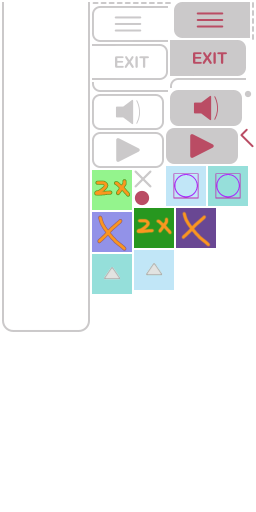
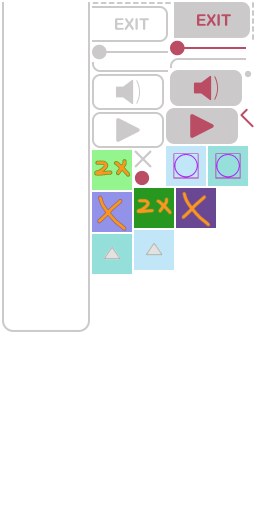
new item toggle asset, animate toggle button

Changed region(s): [[0.3438, 0.0, 1.0, 0.5938]]

diff --git a/PttrnFlow/PttrnFlow/Layers/SequenceUILayer.m b/PttrnFlow/PttrnFlow/Layers/SequenceUILayer.m
@@ -29,6 +29,7 @@ static CGFloat const kLineWidth = 2;
 @property (assign) int steps;
 @property (assign) BOOL menuOpen;
 @property (assign) CGFloat controlBarBottom;
+@property (assign) CGFloat yMidRowBottom;
 
 @property (weak, nonatomic) TickDispatcher *tickDispatcher;
 @property (weak, nonatomic) CCSpriteBatchNode *uiBatchNode;
@@ -39,6 +40,7 @@ static CGFloat const kLineWidth = 2;
 @property (weak, nonatomic) CCSprite *itemMenuTopCap;
 @property (weak, nonatomic) CCSprite *itemMenuBottomCap;
 @property (weak, nonatomic) TileSprite *itemMenuLeftSeparator;
+@property (weak, nonatomic) CCMenuItemToggle *itemsToggle;
 
 @end
 
@@ -55,10 +57,6 @@ static CGFloat const kLineWidth = 2;
         CGSize controlUnitSize = CGSizeMake(kControlStepWidth, kRowHeight);
         CGFloat padding = 20;
         
-//        CGFloat yMidRow1 = self.contentSize.height - ((kRowHeight / 2) +  kStatusBarHeight + topPadding);
-//        CGFloat yMidRow2 = self.contentSize.height - ((3 * kRowHeight) / 2);
-//        CGFloat yMidRow3 = self.contentSize.height - ((5 * kRowHeight) / 2);
-        
         // batch node
         CCSpriteBatchNode *uiBatch = [CCSpriteBatchNode batchNodeWithFile:[kTextureKeyUILayer stringByAppendingString:@".png"]];
         self.uiBatchNode = uiBatch;
@@ -68,39 +66,40 @@ static CGFloat const kLineWidth = 2;
         CCSprite *exitOff = [CCSprite spriteWithSpriteFrameName:@"exit_off.png"];
         
         // bottom button alignment --------------
-        CGFloat yMidRowBottom = (exitOff.contentSize.height / 2) + padding;
+        _yMidRowBottom = (exitOff.contentSize.height / 2) + padding;
         _controlBarBottom = (2 * padding) + exitOff.contentSize.height;
         // -------------------------------------
 
         CCSprite *exitOn = [CCSprite spriteWithSpriteFrameName:@"exit_on.png"];
         CCMenuItemSprite *exitButton = [[CCMenuItemSprite alloc] initWithNormalSprite:exitOff selectedSprite:exitOn disabledSprite:nil target:self selector:@selector(exitPressed:)];
-        exitButton.position = ccp(exitButton.contentSize.width / 2, yMidRowBottom);
+        exitButton.position = ccp(exitButton.contentSize.width / 2, self.yMidRowBottom);
         
         // speaker button
         CCSprite *speakerOff = [CCSprite spriteWithSpriteFrameName:@"speaker_off.png"];
         CCSprite *speakerOn = [CCSprite spriteWithSpriteFrameName:@"speaker_on.png"];
         CCMenuItemSprite *speakerButton = [[CCMenuItemSprite alloc] initWithNormalSprite:speakerOff selectedSprite:speakerOn disabledSprite:nil target:self selector:@selector(speakerPressed:)];
-        speakerButton.position = ccp((3 * buttonSize.width) / 2, yMidRowBottom);
+        speakerButton.position = ccp((3 * buttonSize.width) / 2, self.yMidRowBottom);
         
         // play button
         CCSprite *playOff = [CCSprite spriteWithSpriteFrameName:@"play_off.png"];
         CCSprite *playOn = [CCSprite spriteWithSpriteFrameName:@"play_on.png"];
         CCMenuItemSprite *playButton = [[CCMenuItemSprite alloc] initWithNormalSprite:playOff selectedSprite:playOn disabledSprite:nil target:self selector:@selector(playButtonPressed:)];
-        playButton.position = ccp((5 * buttonSize.width) / 2, yMidRowBottom);
+        playButton.position = ccp((5 * buttonSize.width) / 2, self.yMidRowBottom);
         
-        // hamburger button (drop down menu) top right
-        CCSprite *hamburgerOff1 = [CCSprite spriteWithSpriteFrameName:@"hamburger_off.png"];
-        CCSprite *hamburgerOn1 = [CCSprite spriteWithSpriteFrameName:@"hamburger_on.png"];
-        CCMenuItemSprite *hamburgerOffItem = [CCMenuItemSprite itemWithNormalSprite:hamburgerOff1 selectedSprite:hamburgerOn1];
-        CCSprite *hamburgerOff2 = [CCSprite spriteWithSpriteFrameName:@"hamburger_off.png"];
-        CCSprite *hamburgerOn2 = [CCSprite spriteWithSpriteFrameName:@"hamburger_on.png"];
-        CCMenuItemSprite *hamburgerOnItem = [CCMenuItemSprite itemWithNormalSprite:hamburgerOn2 selectedSprite:hamburgerOff2];
+        // items_button button (drop down menu) top right
+        CCSprite *itemsButtonOff1 = [CCSprite spriteWithSpriteFrameName:@"items_button_off.png"];
+        CCSprite *itemsButtonOn1 = [CCSprite spriteWithSpriteFrameName:@"items_button_on.png"];
+        CCMenuItemSprite *items_buttonOffItem = [CCMenuItemSprite itemWithNormalSprite:itemsButtonOff1 selectedSprite:itemsButtonOn1];
+        CCSprite *itemsButtonOff2 = [CCSprite spriteWithSpriteFrameName:@"items_button_off.png"];
+        CCSprite *itemsButtonOn2 = [CCSprite spriteWithSpriteFrameName:@"items_button_on.png"];
+        CCMenuItemSprite *items_buttonOnItem = [CCMenuItemSprite itemWithNormalSprite:itemsButtonOn2 selectedSprite:itemsButtonOff2];
         
-        CCMenuItemToggle *hamburgerToggle = [CCMenuItemToggle itemWithTarget:self selector:@selector(hamburgerButtonPressed:) items:hamburgerOffItem, hamburgerOnItem, nil];
-        hamburgerToggle.position = ccp(self.contentSize.width - (hamburgerToggle.contentSize.width / 2), yMidRowBottom);
+        CCMenuItemToggle *itemsToggle = [CCMenuItemToggle itemWithTarget:self selector:@selector(itemsButtonPressed:) items:items_buttonOffItem, items_buttonOnItem, nil];
+        _itemsToggle = itemsToggle;
+        itemsToggle.position = [self itemsToggleOriginOpened:NO];
         
         // buttons must be added to a CCMenu to work
-        CCMenu *menu = [CCMenu menuWithItems:exitButton, speakerButton, playButton, hamburgerToggle, nil];
+        CCMenu *menu = [CCMenu menuWithItems:exitButton, speakerButton, playButton, itemsToggle, nil];
         menu.position = ccp(0, 0);
         [self addChild:menu];
         
@@ -142,19 +141,19 @@ static CGFloat const kLineWidth = 2;
         CCSprite *itemMenuBottomCap = [CCSprite spriteWithSpriteFrameName:@"item_menu_bottom.png"];
         _itemMenuBottomCap = itemMenuBottomCap;
         itemMenuBottomCap.anchorPoint = ccp(0, 0);
-        itemMenuBottomCap.position = ccp([self itemMenuLeftOnscreen:NO], self.controlBarBottom);
+        itemMenuBottomCap.position = ccp([self itemMenuLeftOpened:NO], self.controlBarBottom);
         [uiBatch addChild:itemMenuBottomCap];
         
         TileSprite *itemMenuLeftSeparator = [[TileSprite alloc] initWithTileFrameName:@"dotted_line_2_80.png" repeatHorizonal:1 repeatVertical:dragItems.count];
         _itemMenuLeftSeparator = itemMenuLeftSeparator;
         itemMenuLeftSeparator.anchorPoint = ccp(0, 0);
-        itemMenuLeftSeparator.position = ccp([self itemMenuLeftOnscreen:NO], self.itemMenuBottomCap.position.y + self.itemMenuBottomCap.contentSize.height);
+        itemMenuLeftSeparator.position = ccp([self itemMenuLeftOpened:NO], self.itemMenuBottomCap.position.y + self.itemMenuBottomCap.contentSize.height);
         [uiBatch addChild:itemMenuLeftSeparator];
         
         CCSprite *itemMenuTopCap = [CCSprite spriteWithSpriteFrameName:@"item_menu_top.png"];
         _itemMenuTopCap = itemMenuTopCap;
         itemMenuTopCap.anchorPoint = ccp(0, 0);
-        itemMenuTopCap.position = ccp([self itemMenuLeftOnscreen:NO], self.itemMenuLeftSeparator.position.y + self.itemMenuLeftSeparator.contentSize.height);
+        itemMenuTopCap.position = ccp([self itemMenuLeftOpened:NO], self.itemMenuLeftSeparator.position.y + self.itemMenuLeftSeparator.contentSize.height);
         [uiBatch addChild:itemMenuTopCap];
         
         // size and position the pan sprite and control bar
@@ -179,23 +178,31 @@ static CGFloat const kLineWidth = 2;
     return self;
 }
 
-- (CGFloat)itemMenuLeftOnscreen:(BOOL)onscreen
+- (CGFloat)itemMenuLeftOpened:(BOOL)opened
 {
     static CGFloat padding = 4;
-    if (onscreen) {
+    if (opened) {
         return self.contentSize.width - self.itemMenuBottomCap.contentSize.width;
     }
     return self.contentSize.width + (self.controlBar.contentSize.width - self.contentSize.width) + padding;
 }
 
+- (CGPoint)itemsToggleOriginOpened:(BOOL)opened
+{
+    static CGFloat padding = 16;
+    if (opened) {
+        return ccp(self.contentSize.width - (self.itemsToggle.contentSize.width / 2), self.yMidRowBottom);
+    }
+    return ccp(self.contentSize.width - (self.itemsToggle.contentSize.width / 2) + padding, self.yMidRowBottom);
+}
+
 - (void)configureItemMenuOpened:(BOOL)opened animated:(BOOL)animated
 {
     int unitWidth = MIN(self.steps, kMaxControlLengthFull);
-    CGFloat itemMenuLeft = [self itemMenuLeftOnscreen:NO];
     if (opened) {
         unitWidth = MIN(self.steps, kMaxControlLengthCompact);
-        itemMenuLeft = [self itemMenuLeftOnscreen:YES];
     }
+    CGFloat itemMenuLeft = [self itemMenuLeftOpened:opened];
     
     // control bar
     CGFloat xOffset = -(kMaxControlLengthFull - unitWidth) * kControlStepWidth;
@@ -253,6 +260,11 @@ static CGFloat const kLineWidth = 2;
         CCEaseSineOut *easeItemMenuTopCap = [CCEaseSineOut actionWithAction:moveItemMenuTopCap];
         [self.itemMenuTopCap runAction:easeItemMenuTopCap];
         
+        // item menu toggle button
+        CCMoveTo *moveItemToggle = [CCMoveTo actionWithDuration:kTransitionDuration position:[self itemsToggleOriginOpened:opened]];
+        CCEaseSineInOut *easeItemToggle = [CCEaseSineInOut actionWithAction:moveItemToggle];
+        [self.itemsToggle runAction:easeItemToggle];
+        
         // update callback for pan node interior tracking
         [self scheduleUpdate];
     }
@@ -263,6 +275,7 @@ static CGFloat const kLineWidth = 2;
         self.itemMenuBottomCap.position = itemMenuBottomCapPos;
         self.itemMenuLeftSeparator.position = itemMenuLeftSeparatorPos;
         self.itemMenuTopCap.position = itemMenuTopCapPos;
+        self.itemsToggle.position = [self itemsToggleOriginOpened:opened];
     }
 }
 
@@ -294,7 +307,7 @@ static CGFloat const kLineWidth = 2;
     [self.tickDispatcher start];
 }
 
-- (void)hamburgerButtonPressed:(id)sender
+- (void)itemsButtonPressed:(id)sender
 {
     self.menuOpen = !self.menuOpen;
     [self configureItemMenuOpened:self.menuOpen animated:YES];
